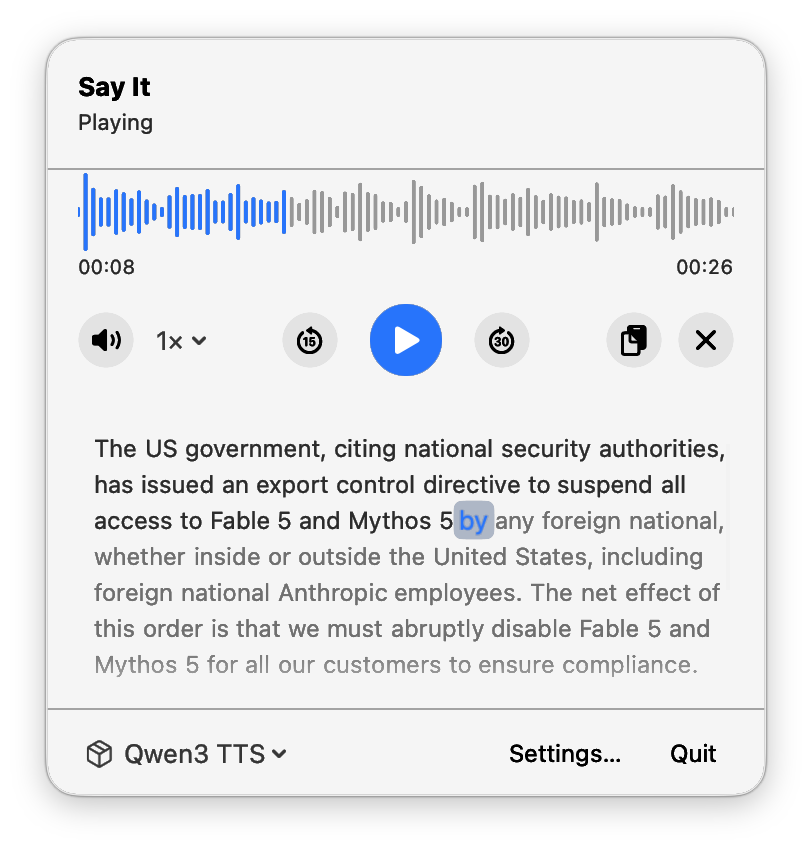
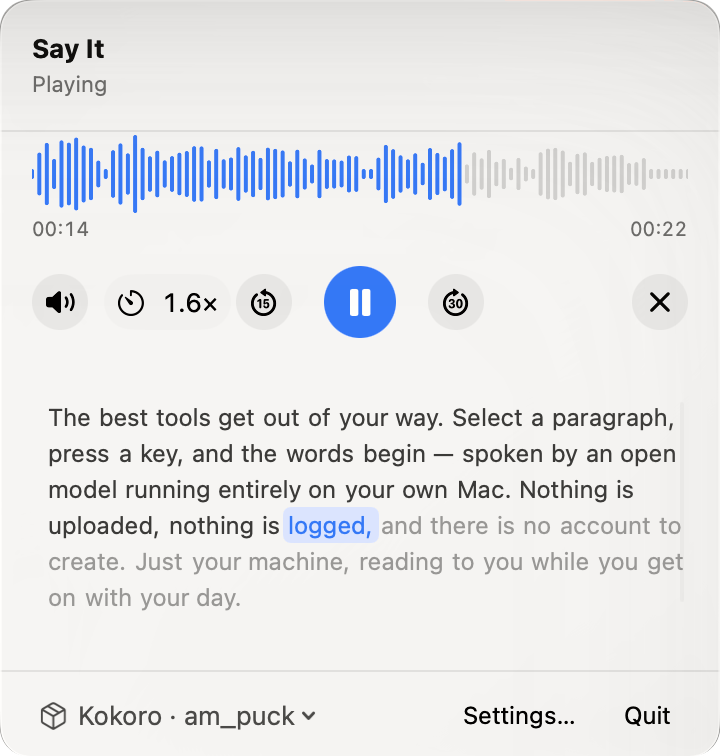
Redesign landing page screenshot section

diff --git a/public/index.html b/public/index.html
@@ -46,6 +46,11 @@
     --chip: rgba(10, 10, 11, 0.4);
     --focus: rgba(242, 241, 237, 0.7);
     --icon-filter: invert(0.94);
+    --tile-top: #232326;
+    --tile-bottom: #19191b;
+    --tile-hi: rgba(242, 241, 237, 0.07);
+    --menubar: rgba(242, 241, 237, 0.06);
+    --menubar-active: rgba(242, 241, 237, 0.16);
     --btn-primary-hover: #ffffff;
     --ease-out: cubic-bezier(0.23, 1, 0.32, 1);
     --mono: ui-monospace, "SF Mono", SFMono-Regular, Menlo, Consolas, monospace;
@@ -64,6 +69,11 @@
     --chip: rgba(246, 245, 241, 0.55);
     --focus: rgba(23, 23, 20, 0.55);
     --icon-filter: none;
+    --tile-top: #eceae4;
+    --tile-bottom: #e4e2db;
+    --tile-hi: rgba(255, 255, 255, 0.55);
+    --menubar: rgba(255, 255, 255, 0.5);
+    --menubar-active: rgba(23, 23, 20, 0.1);
     --btn-primary-hover: #000000;
   }
 
@@ -469,59 +479,156 @@
     color: var(--fg-muted);
   }
 
-  .shots {
+  /* Both screenshots render at one shared point scale (1124px gallery = 1:1
+     with the Mac), so their text sizes match; every length below is in cqw of
+     the gallery so the composition scales as a single unit. */
+  .gallery {
+    container-type: inline-size;
     margin-top: clamp(54px, 9vh, 92px);
-    padding-bottom: clamp(36px, 5vw, 60px);
-    display: flex;
-    justify-content: center;
-    align-items: flex-start;
-    gap: clamp(24px, 3vw, 44px);
-    /* one shared height so both windows match: sum of aspect ratios is 2.201 */
-    --h: min(470px, calc((min(1124px, 100vw - 56px) - 44px) / 2.201));
+    display: grid;
+    grid-template-columns: 38fr 60fr;
+    column-gap: 2cqw;
+    row-gap: 22px;
+    --tile-h: 40cqw;
+    --pt: calc(100cqw / 1124);   /* one macOS point */
   }
 
   .shot {
     margin: 0;
-    clip-path: inset(0 0 100% 0);
+    min-width: 0;
+    display: flex;
+    flex-direction: column;
+    gap: 20px;
     opacity: 0;
-    transition: clip-path 900ms cubic-bezier(0.77, 0, 0.175, 1), opacity 500ms ease;
+    transform: translateY(18px);
+    transition: opacity 700ms ease, transform 900ms var(--ease-out);
     transition-delay: var(--rd, 0ms);
   }
 
-  .shot.is-in { clip-path: inset(0 0 0 0); opacity: 1; }
+  .shot.is-in { opacity: 1; transform: none; }
 
-  .shot img {
+  .tile {
+    position: relative;
+    height: var(--tile-h);
+    overflow: clip;
+    border-radius: calc(22 * var(--pt));
+    background:
+      radial-gradient(120% 85% at 22% 0%, var(--tile-hi) 0%, transparent 62%),
+      linear-gradient(180deg, var(--tile-top), var(--tile-bottom));
+    box-shadow: inset 0 0 0 1px var(--line);
+    transition: background-color 300ms ease;
+  }
+
+  .tile img {
+    position: absolute;
     display: block;
-    width: auto;
-    height: var(--h);
-    transform: scale(1.05);
-    transition: transform 1200ms var(--ease-out);
-    transition-delay: var(--rd, 0ms);
+    height: auto;
+    transform: translateY(calc(26 * var(--pt)));
+    transition: transform 1300ms var(--ease-out);
+    transition-delay: calc(var(--rd, 0ms) + 120ms);
   }
 
-  .shot.is-in img { transform: scale(1); }
+  .shot.is-in .tile img { transform: none; }
 
-  /* shadows are baked into the transparent PNGs; dark mode swaps the asset */
-  .shot .img-dark { display: none; }
+  /* menu-bar strip the player hangs from */
+  .menubar {
+    position: absolute;
+    inset: 0 0 auto 0;
+    height: calc(30 * var(--pt));
+    display: flex;
+    align-items: center;
+    gap: calc(14 * var(--pt));
+    padding: 0 calc(18 * var(--pt)) 0 calc(50% - 184 * var(--pt));
+    background: var(--menubar);
+    border-bottom: 1px solid var(--line);
+    color: var(--fg);
+    font-size: calc(13 * var(--pt));
+    font-weight: 500;
+    font-variant-numeric: tabular-nums;
+  }
 
-  [data-theme="dark"] .shot .img-dark { display: block; }
-  [data-theme="dark"] .shot .img-light { display: none; }
+  .menubar svg {
+    display: block;
+    width: calc(16 * var(--pt));
+    height: calc(16 * var(--pt));
+    fill: none;
+    stroke: currentColor;
+    stroke-width: 1.6;
+    stroke-linecap: round;
+    stroke-linejoin: round;
+    opacity: 0.8;
+  }
 
-  /* optical centering: the models window sits a touch lower than the player */
-  .shot-models { transform: translateY(clamp(10px, 1.5vw, 20px)); }
+  .menubar .active {
+    display: grid;
+    place-items: center;
+    width: calc(30 * var(--pt));
+    height: calc(22 * var(--pt));
+    border-radius: calc(6 * var(--pt));
+    background: var(--menubar-active);
+  }
+
+  .menubar .active img {
+    position: static;
+    width: calc(15 * var(--pt));
+    height: auto;
+    filter: var(--icon-filter);
+    transform: none;
+    transition: none;
+  }
+
+  /* the popover's left edge sits under the status item, as on macOS */
+  .shot-player .tile > img {
+    top: calc(40 * var(--pt));
+    left: calc(50% - 180 * var(--pt));
+    width: calc(360 * var(--pt));
+    filter:
+      drop-shadow(0 0 0.5px rgba(0, 0, 0, 0.32))
+      drop-shadow(0 calc(14 * var(--pt)) calc(26 * var(--pt)) rgba(0, 0, 0, 0.16));
+  }
+
+  .menubar time { margin-left: auto; }
+
+  .shot-models .tile > img {
+    top: calc(40 * var(--pt));
+    left: calc(46 * var(--pt));   /* crops past "About", before the row actions */
+    width: calc(760 * var(--pt));
+    filter:
+      drop-shadow(0 0 0.5px rgba(0, 0, 0, 0.32))
+      drop-shadow(0 calc(18 * var(--pt)) calc(36 * var(--pt)) rgba(0, 0, 0, 0.16));
+  }
 
   .shot figcaption {
-    margin-top: 14px;
+    display: grid;
+    grid-template-columns: auto 1fr;
+    column-gap: 14px;
+    row-gap: 4px;
+    padding: 0 2px;
+  }
+
+  .shot figcaption .idx {
+    grid-row: span 2;
+    padding-top: 3px;
     font-family: var(--mono);
-    font-size: 11.5px;
+    font-size: 11px;
     letter-spacing: 0.04em;
+    color: var(--fg-faint);
+  }
+
+  .shot figcaption strong {
+    font-size: 14.5px;
+    font-weight: 600;
+    letter-spacing: -0.01em;
+  }
+
+  .shot figcaption span:last-child {
+    font-size: 13.5px;
+    line-height: 1.5;
     color: var(--fg-muted);
   }
 
-  .shot figcaption .idx { color: var(--fg-faint); margin-right: 10px; }
-
   .closing {
-    margin-top: clamp(40px, 7vh, 72px);
+    margin-top: clamp(64px, 10vh, 104px);
     display: flex;
     flex-direction: column;
     align-items: center;
@@ -531,11 +638,11 @@
 
   .closing p { color: var(--fg-muted); font-size: 15px; }
 
-  @media (max-width: 860px) {
-    .shots { display: block; padding-bottom: 0; }
-    .shot { height: auto; }
-    .shot img { width: 100%; height: auto; }
-    .shot-models { transform: none; margin-top: 28px; }
+  @media (max-width: 760px) {
+    .gallery { grid-template-columns: minmax(0, 1fr); row-gap: 40px; }
+    /* stacked: fill the column, but never render larger than the Mac does */
+    .shot-player .tile { --pt: min(calc(100cqw / 420), 1px); height: calc(458 * var(--pt)); }
+    .shot-models .tile { --pt: calc(100cqw / 660); height: calc(470 * var(--pt)); }
   }
 
   /* ---------- scroll reveal ---------- */
@@ -574,8 +681,8 @@
     .theme-toggle svg { transition: opacity 180ms ease; transform: none; }
     html, body { transition: none; }
     .reveal { transform: none; transition: opacity 300ms ease; transition-delay: 0ms; }
-    .shot { clip-path: inset(0 0 0 0); transition: opacity 300ms ease; transition-delay: 0ms; }
-    .shot img { transform: none; transition: none; }
+    .shot { transform: none; transition: opacity 300ms ease; transition-delay: 0ms; }
+    .tile img { transform: none; transition: none; }
   }
 </style>
 </head>
@@ -675,24 +782,36 @@
       speak offline from then on.
     </p>
 
-    <div class="shots">
-      <figure class="shot shot-player" style="--rd:120ms">
-        <img class="img-light" src="resources/player.png"
-             alt="SayIt's menu-bar player showing a waveform, playback controls, and the spoken text with the current word highlighted"
-             width="812" height="850" loading="lazy" decoding="async">
-        <img class="img-dark" src="resources/player-dark.png"
-             alt="" aria-hidden="true"
-             width="812" height="850" loading="lazy" decoding="async">
-        <figcaption><span class="idx">01</span>The menu-bar player — waveform, seek, speed, history.</figcaption>
+    <div class="gallery">
+      <figure class="shot shot-player" style="--rd:80ms">
+        <div class="tile">
+          <div class="menubar" aria-hidden="true">
+            <span class="active"><img src="icon.svg" alt="" width="15" height="15"></span>
+            <svg viewBox="0 0 16 16"><path d="M1.8 6.2a9 9 0 0 1 12.4 0M4 8.6a5.8 5.8 0 0 1 8 0M6.2 11a2.6 2.6 0 0 1 3.6 0"/><circle cx="8" cy="13.2" r=".6" fill="currentColor"/></svg>
+            <svg viewBox="0 0 16 16"><rect x="1.2" y="4.6" width="12" height="6.8" rx="2"/><path d="M14.8 6.8v2.4"/><rect x="3" y="6.4" width="7" height="3.2" rx=".8" fill="currentColor" stroke="none"/></svg>
+            <time>Wed 9:41</time>
+          </div>
+          <img src="resources/player.png"
+               alt="SayIt's menu-bar player reading a paragraph aloud, with a waveform, playback controls, and the current word highlighted"
+               width="720" height="756" loading="lazy" decoding="async">
+        </div>
+        <figcaption>
+          <span class="idx">01</span>
+          <strong>Lives in your menu bar</strong>
+          <span>Follow each word, scrub the waveform, change the speed.</span>
+        </figcaption>
       </figure>
-      <figure class="shot shot-models" style="--rd:280ms">
-        <img class="img-light" src="resources/models.png"
-             alt="SayIt's model library listing open MLX models with sizes, licenses, and download buttons"
-             width="1744" height="1400" loading="lazy" decoding="async">
-        <img class="img-dark" src="resources/models-dark.png"
-             alt="" aria-hidden="true"
-             width="1744" height="1400" loading="lazy" decoding="async">
-        <figcaption><span class="idx">02</span>The model library — open models, one download away.</figcaption>
+      <figure class="shot shot-models" style="--rd:200ms">
+        <div class="tile">
+          <img src="resources/models.png"
+               alt="SayIt's model library listing open MLX speech models with their size, speed, languages, and license"
+               width="1520" height="1176" loading="lazy" decoding="async">
+        </div>
+        <figcaption>
+          <span class="idx">02</span>
+          <strong>Open models, one click away</strong>
+          <span>Kokoro, Qwen3, OmniVoice and more — download once, run offline.</span>
+        </figcaption>
       </figure>
     </div>
 
